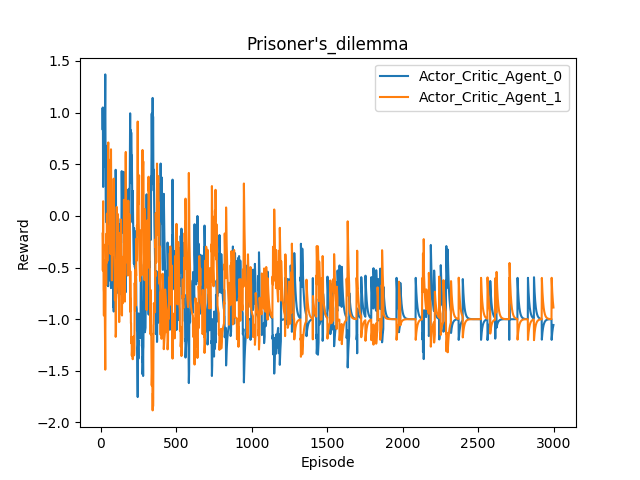
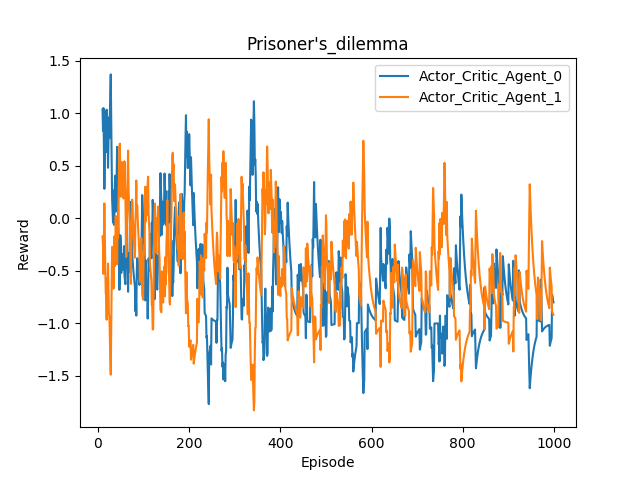
Minor tweaks and bugfixes

diff --git a/Agents.py b/Agents.py
@@ -173,30 +173,30 @@ class Critic(object):
         return td_error
 
 class Policing_Agent(Agent):
-    def __init__(self, env, agent_list, learning_rate=0.001, n_units = 4, gamma = 0.95):
+    def __init__(self, env, agent_list, learning_rate=0.01, n_units = 4, gamma = 0.95):
         super().__init__(env, learning_rate, gamma)
         self.agent_list = agent_list
         self.n_policing_actions = 2
         self.n_features = env.n_features + env.n_actions
 
         self.s = tf.placeholder(tf.float32, [1, env.n_features], "state")
-        self.pi1_action_probs = tf.placeholder(tf.float32, [1, env.n_actions], "player1_action_probs")
+        #self.pi1_action_probs = tf.placeholder(tf.float32, [1, env.n_actions], "player1_action_probs")
         #self.a = tf.placeholder(tf.int32, None, "policing_action")
         self.a_player = tf.placeholder(tf.float32, None, "player1_action")
         self.inputs = tf.concat([self.s,tf.reshape(self.a_player,(1,1))],1)
 
         with tf.variable_scope('Policy_Network'):
-            l1 = tf.layers.dense(
-                inputs=self.inputs,
-                units=n_units,    # number of hidden units
-                activation=tf.nn.relu,
-                kernel_initializer=tf.random_normal_initializer(0., .1),    # weights
-                bias_initializer=tf.constant_initializer(0),  # biases
-                name='l1_policing'
-            )
+            # l1 = tf.layers.dense(
+            #     inputs=self.inputs,
+            #     units=n_units,    # number of hidden units
+            #     activation=tf.nn.relu,
+            #     kernel_initializer=tf.random_normal_initializer(0., .1),    # weights
+            #     bias_initializer=tf.constant_initializer(0),  # biases
+            #     name='l1_policing'
+            # )
 
             self.actions_prob = tf.layers.dense(
-                inputs=l1,
+                inputs=self.inputs,
                 units=self.n_policing_actions,    # output units
                 activation=tf.nn.softmax,
                 kernel_initializer=tf.random_normal_initializer(0., .1),  # weights
@@ -210,7 +210,7 @@ class Policing_Agent(Agent):
 
         with tf.variable_scope('V_total'):
             # V is trivial to calculate in this special case
-            self.v = 2 * (self.pi1_action_probs[0,1] - self.pi1_action_probs[0,0])
+            self.v = 4 * (self.a_player - 0.5)
 
         with tf.variable_scope('cost_function'):
             # Gradients w.r.t. theta_1
@@ -232,11 +232,12 @@ class Policing_Agent(Agent):
         self.sess.run(tf.global_variables_initializer())
 
     def learn(self, s, a_player):
-        player_action_probs = self.agent_list[0].calc_action_probs(s)
+        #player_action_probs = self.agent_list[0].calc_action_probs(s)
         s = s[np.newaxis,:]
-        feed_dict = {self.s: s, self.a_player: a_player, self.pi1_action_probs: player_action_probs, 
-                    self.agent_list[0].actor.s: s}
+        feed_dict = {self.s: s, self.a_player: a_player, self.agent_list[0].actor.s: s}
         self.sess.run([self.train_op], feed_dict)
+        #feed_dict = {self.a_player: a_player}
+        #print(self.sess.run([self.v], feed_dict))
 
     def choose_action(self, s, a):
         action_probs = self.calc_action_probs(s, a)

diff --git a/main.py b/main.py
@@ -3,7 +3,7 @@ import numpy as np
 from Environments import Prisoners_Dilemma
 from Agents import Actor_Critic_Agent, Critic_Variant, Policing_Agent
 HISTORY_LENGTH = 5 # the NN will use the actions from this many past rounds to determine its action
-N_EPISODES = 3000
+N_EPISODES = 1000
 N_PLAYERS = 4
 N_UNITS = 1 #number of nodes in the intermediate layer of the NN
 
